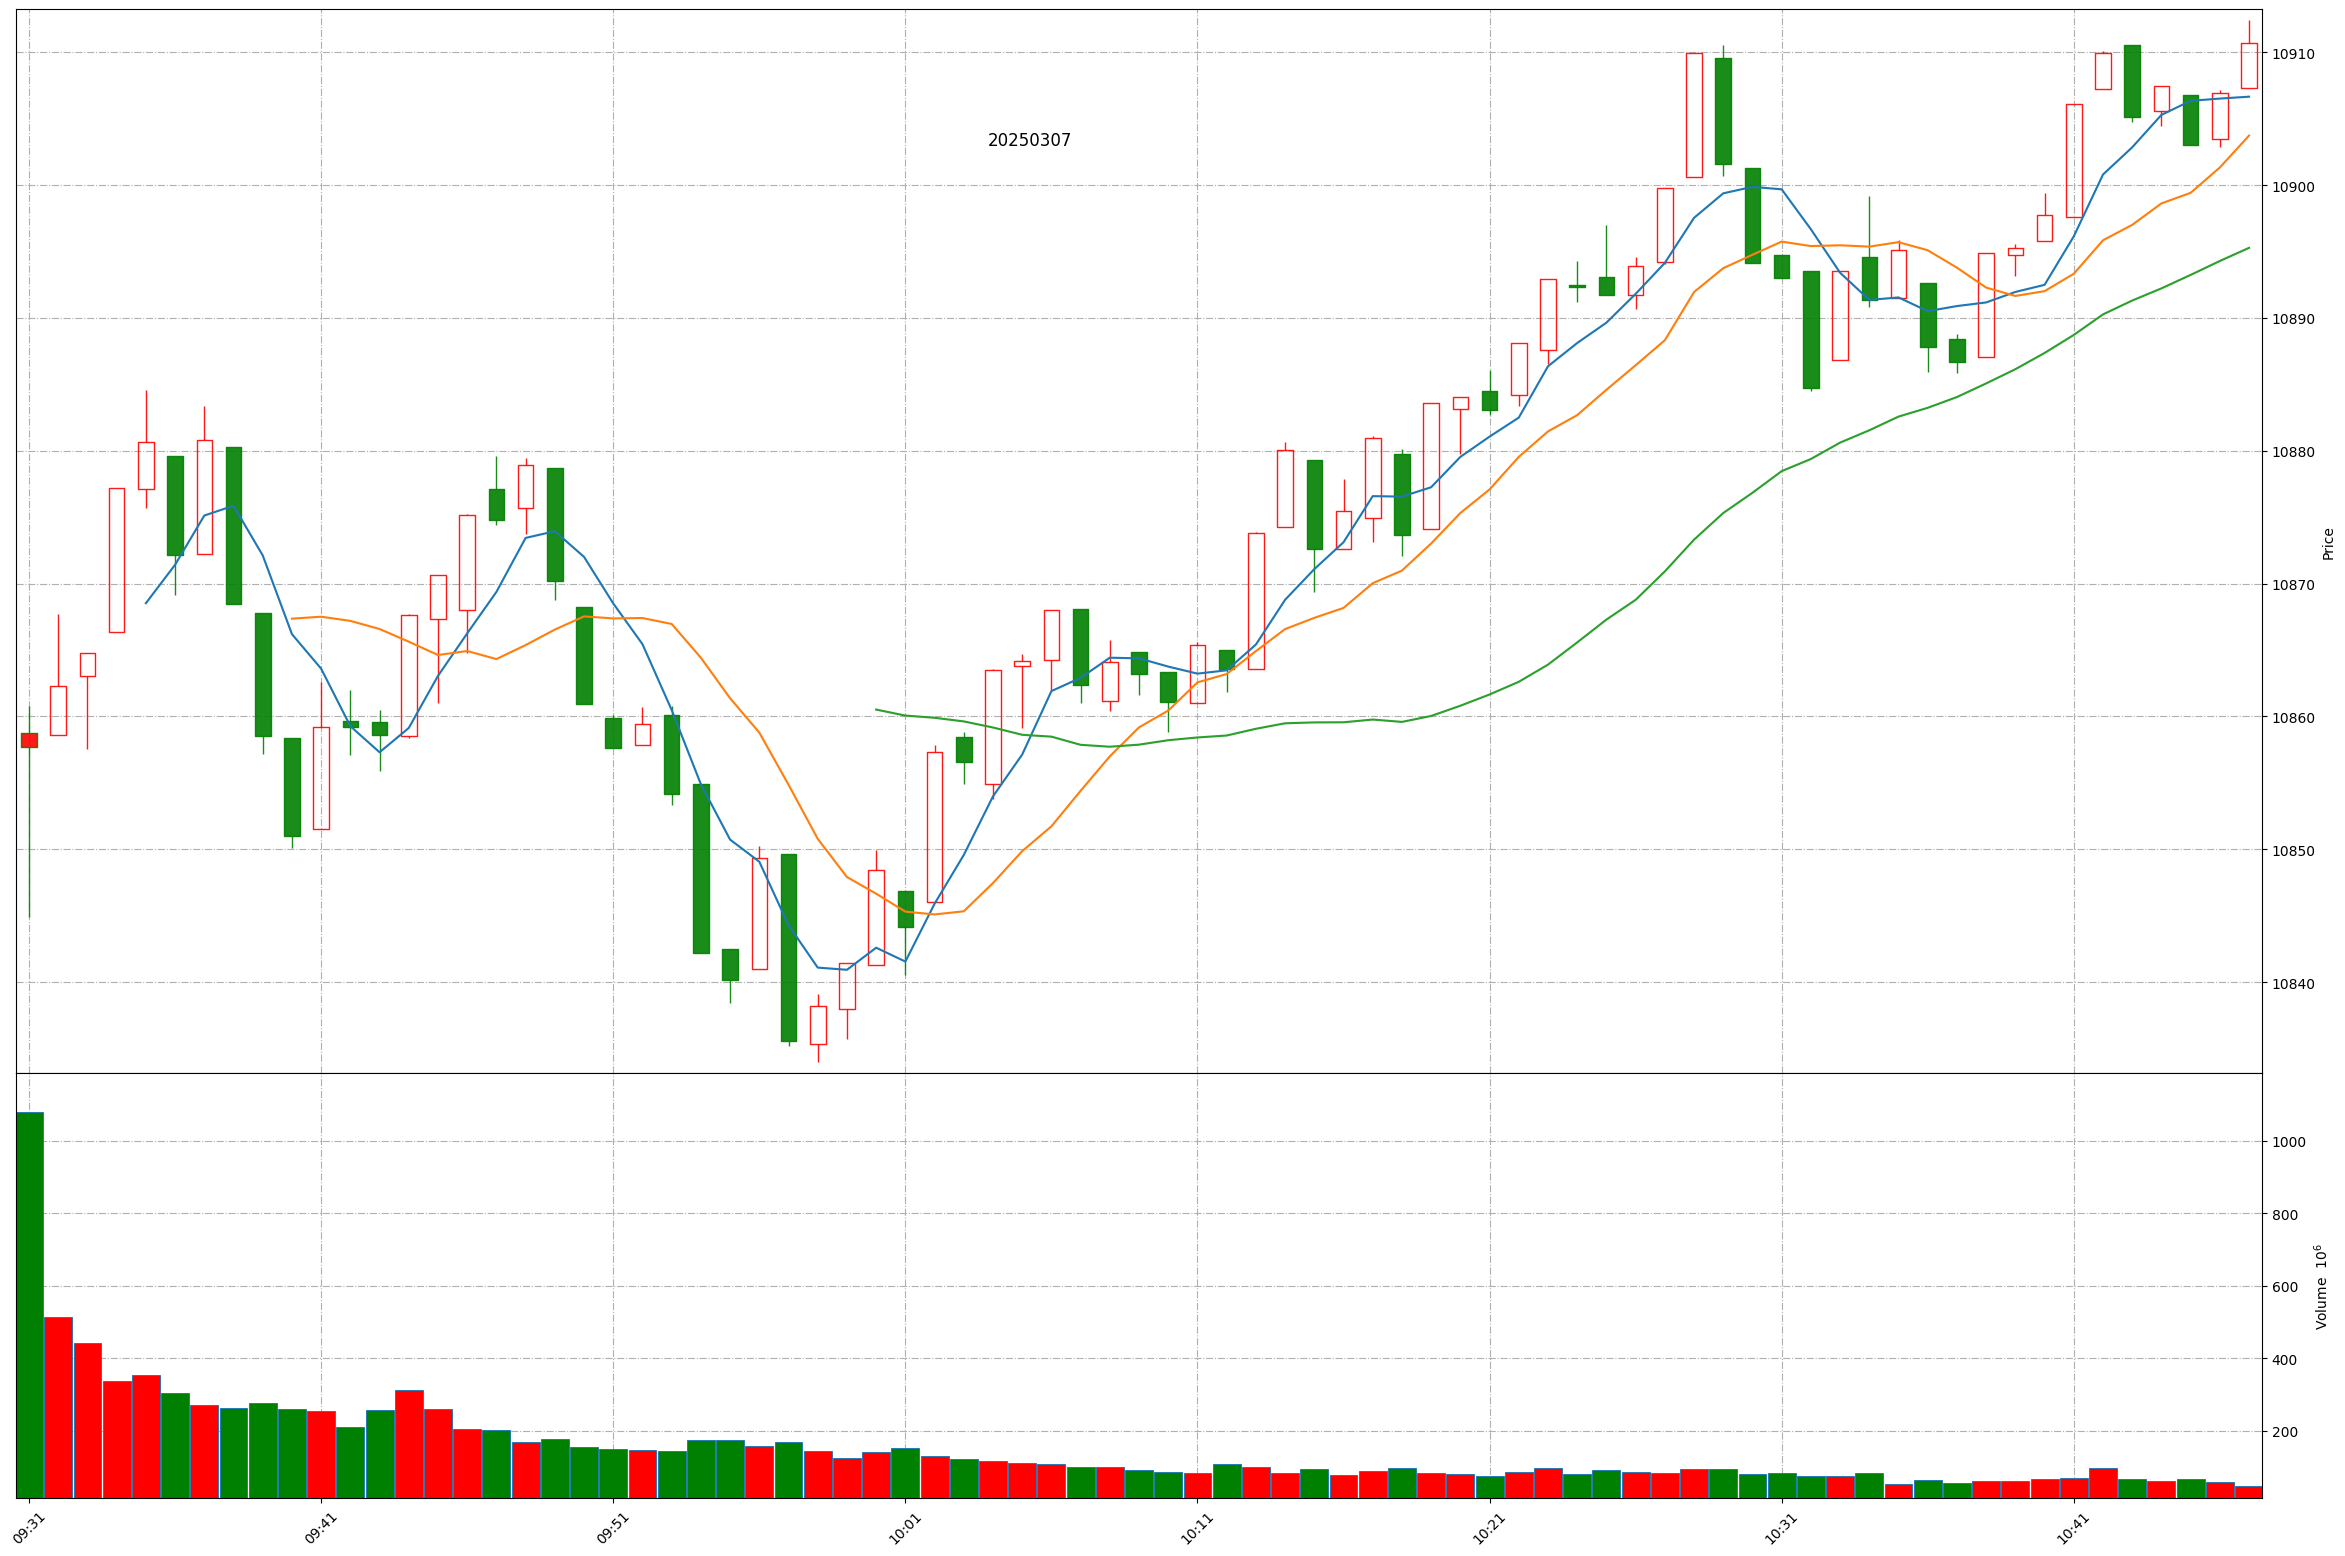
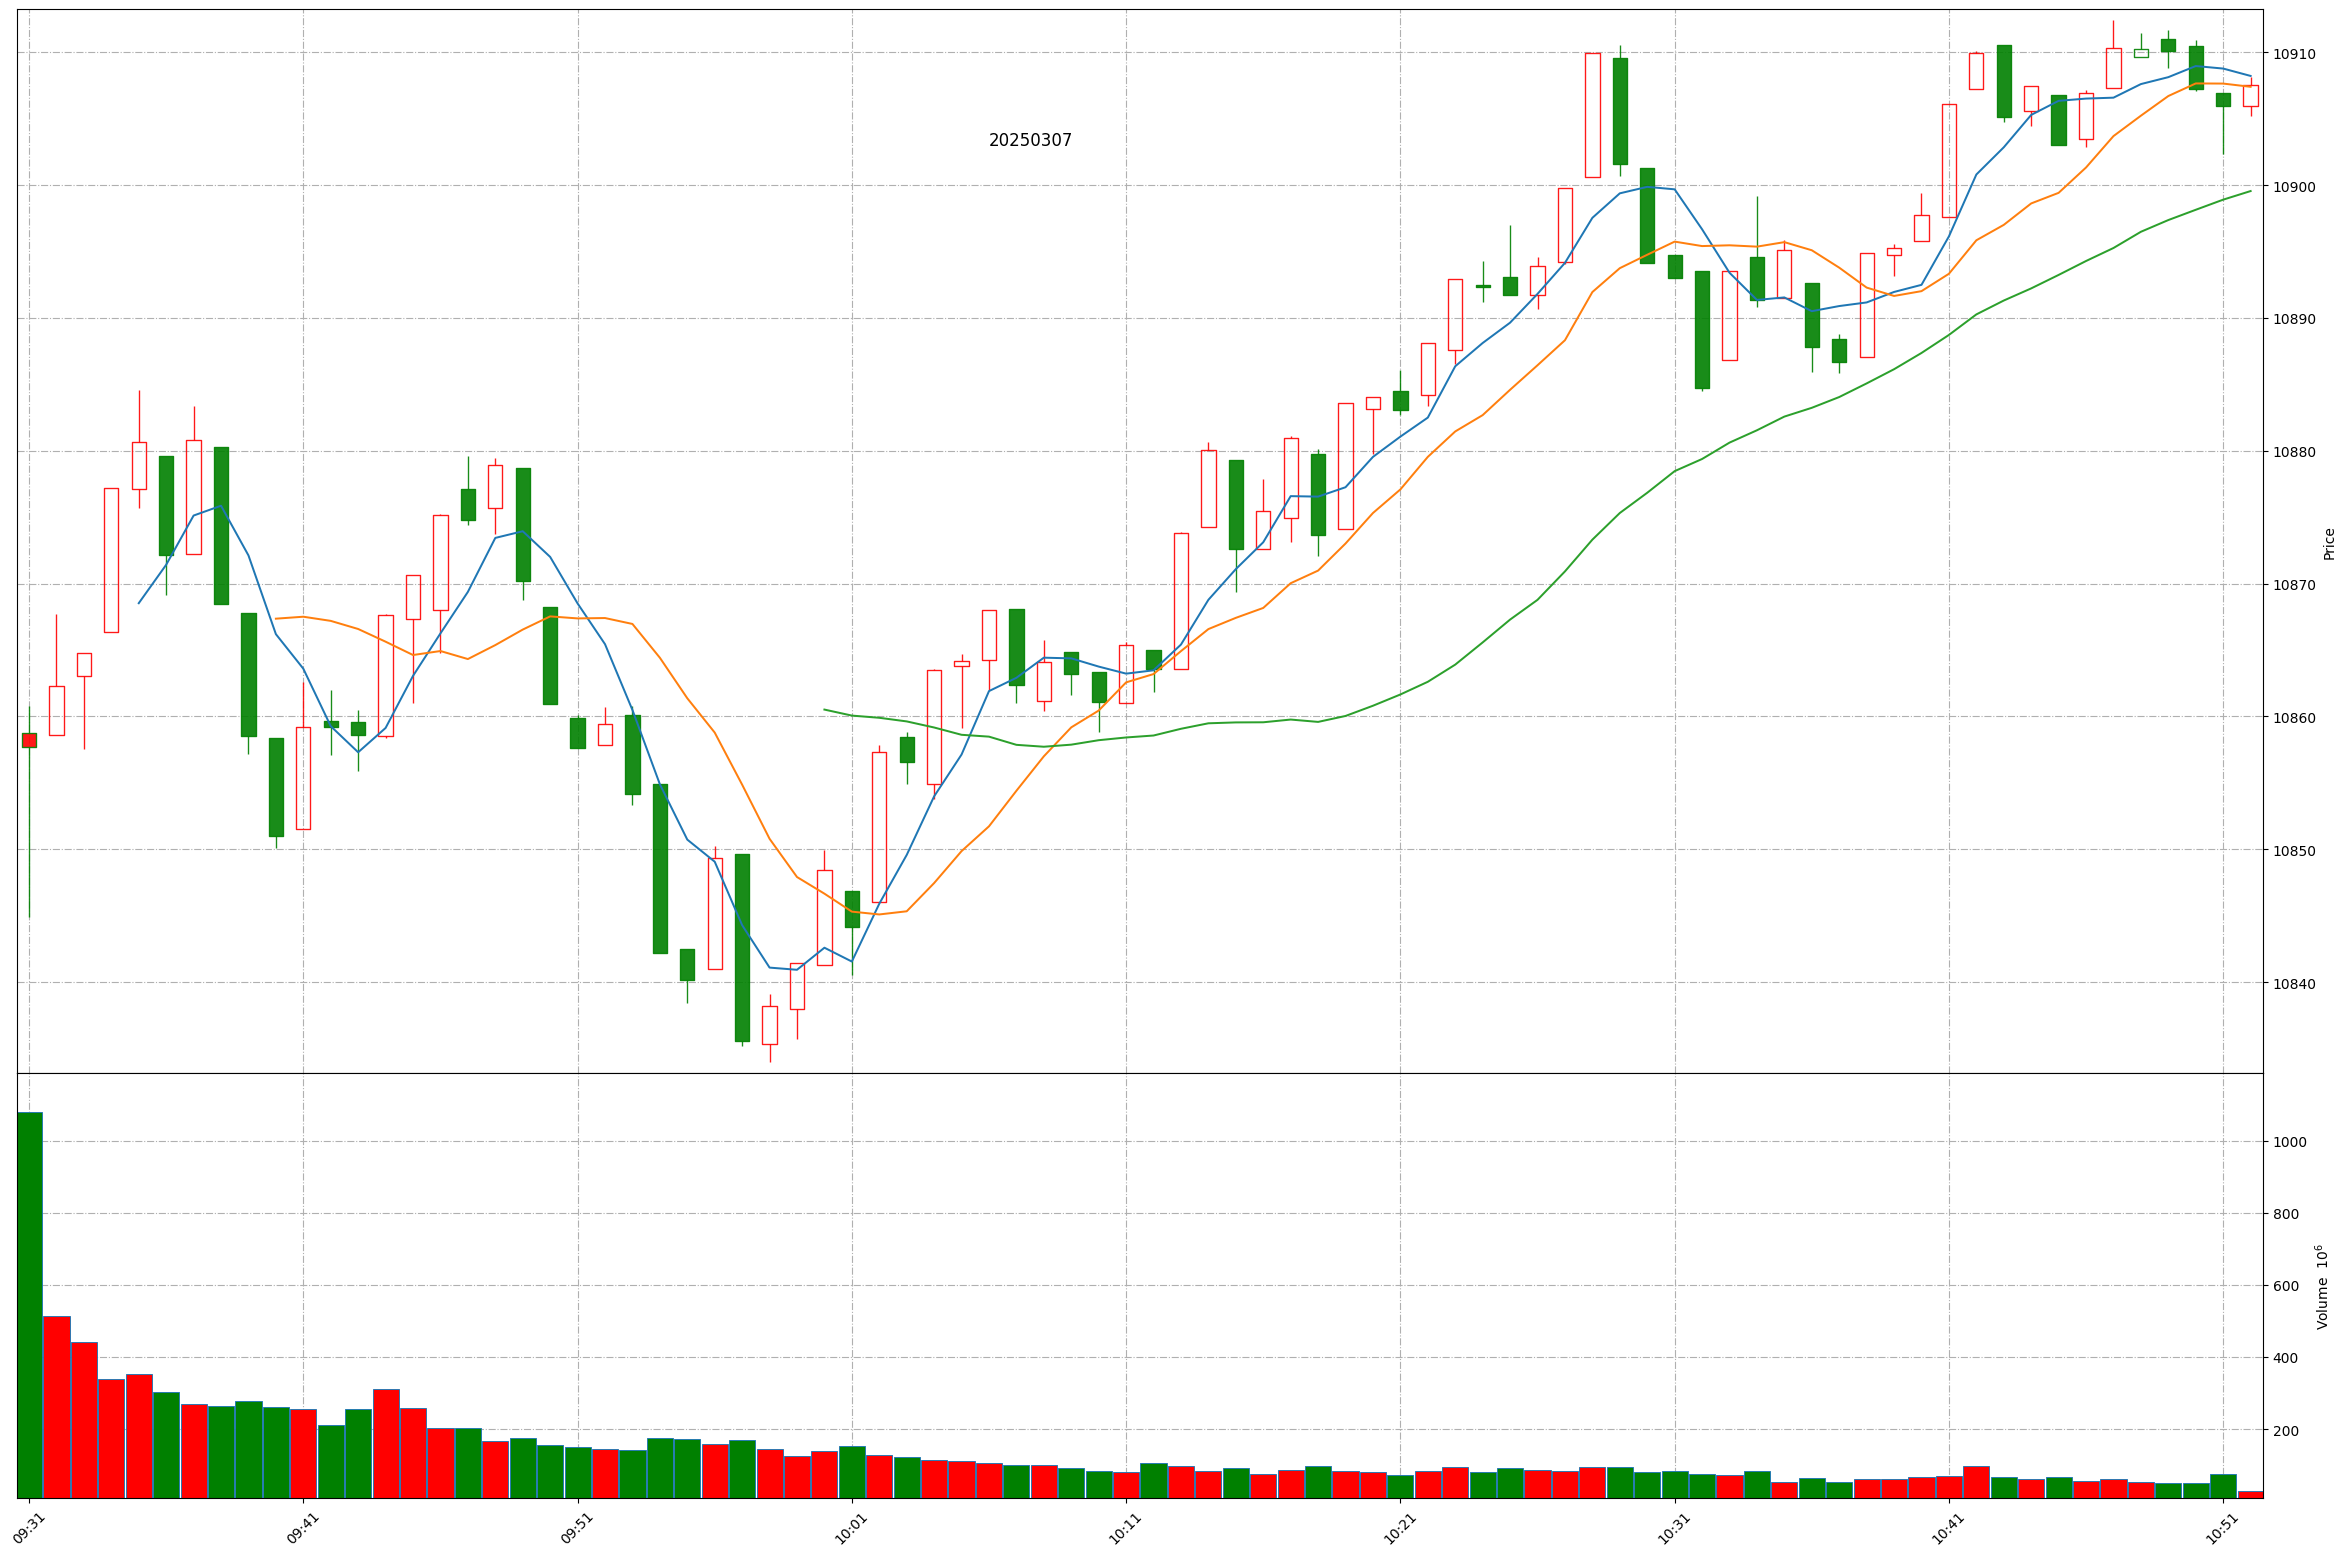
Github action update at 2025-03-07 10:51:41.

diff --git a/README.md b/README.md
@@ -1,11 +1,11 @@
 
 # Daily-A-share-market-quotes 每日 A 股指数（5min 更新）- 20250307
 
-### 上证指数 20250307 10:47
+### 上证指数 20250307 10:51
 ![](./fig/2025/3/20250307-sh000001.png)
 
-### 深证成指 20250307 10:47
+### 深证成指 20250307 10:51
 ![](./fig/2025/3/20250307-sz399001.png)
 
-### 北证50 20250307 10:47
+### 北证50 20250307 10:51
 ![](./fig/2025/3/20250307-bj899050.png)
